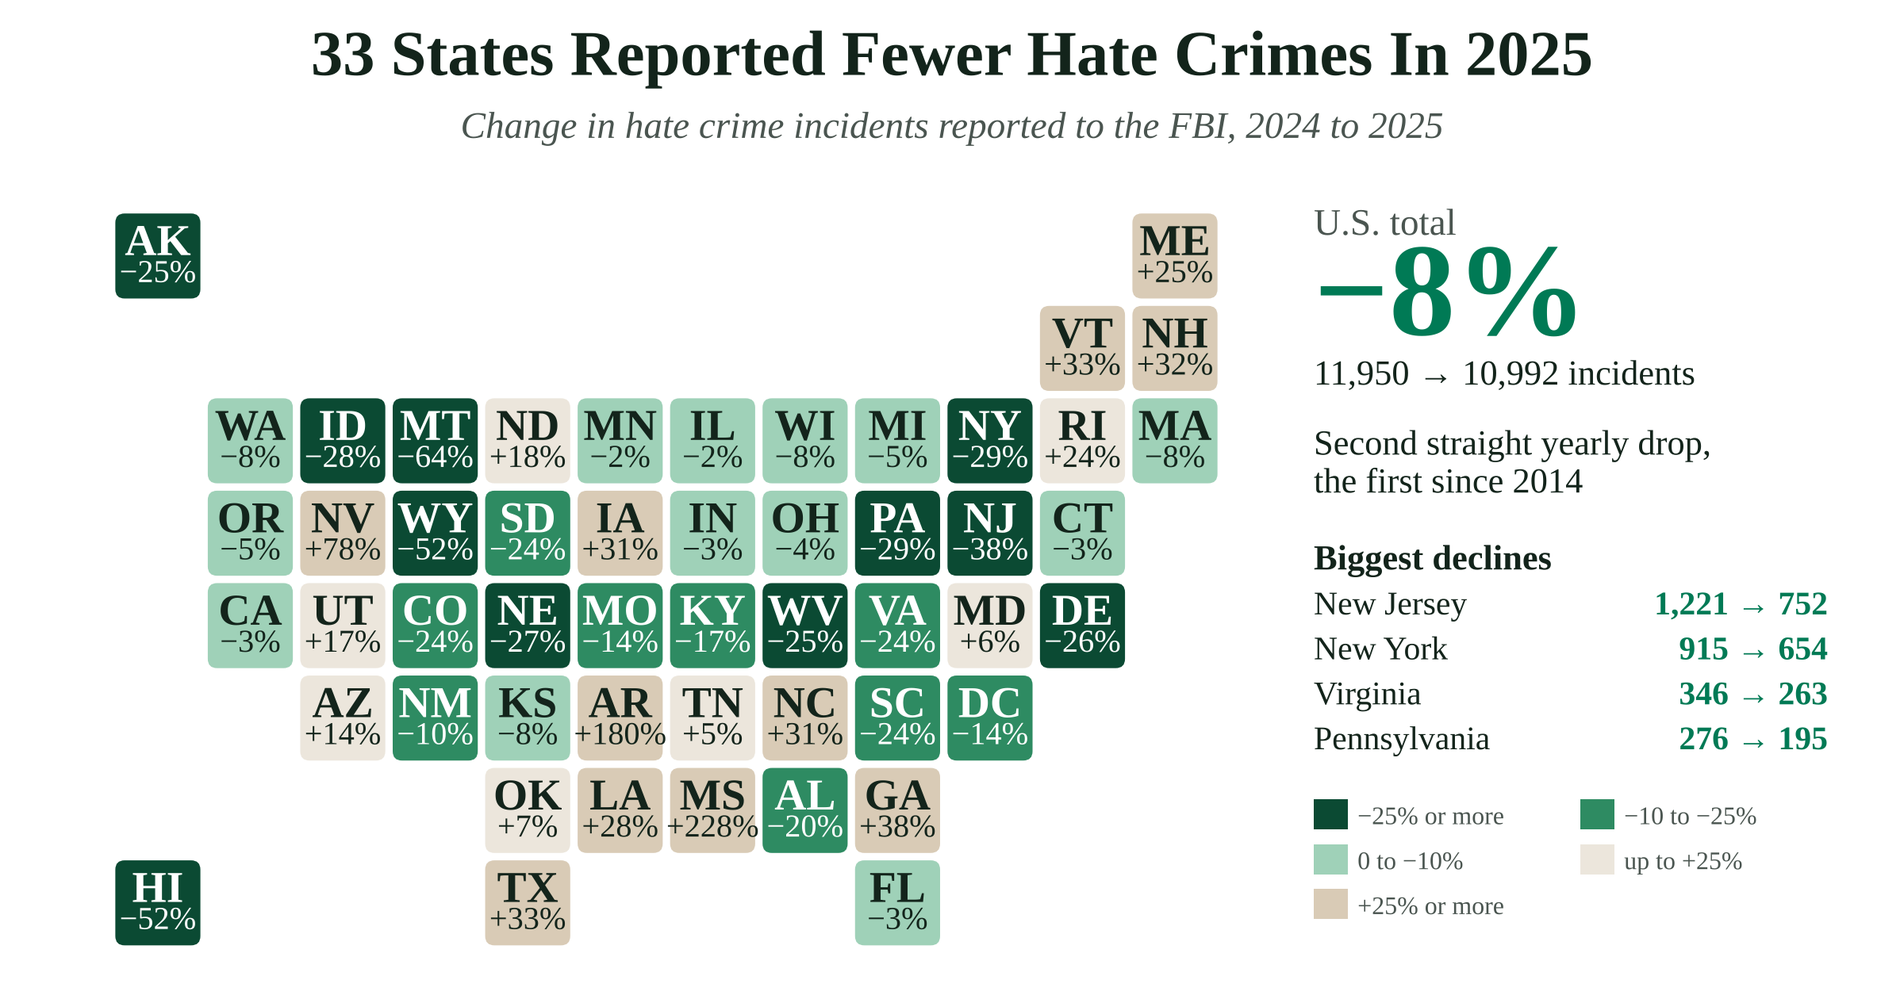
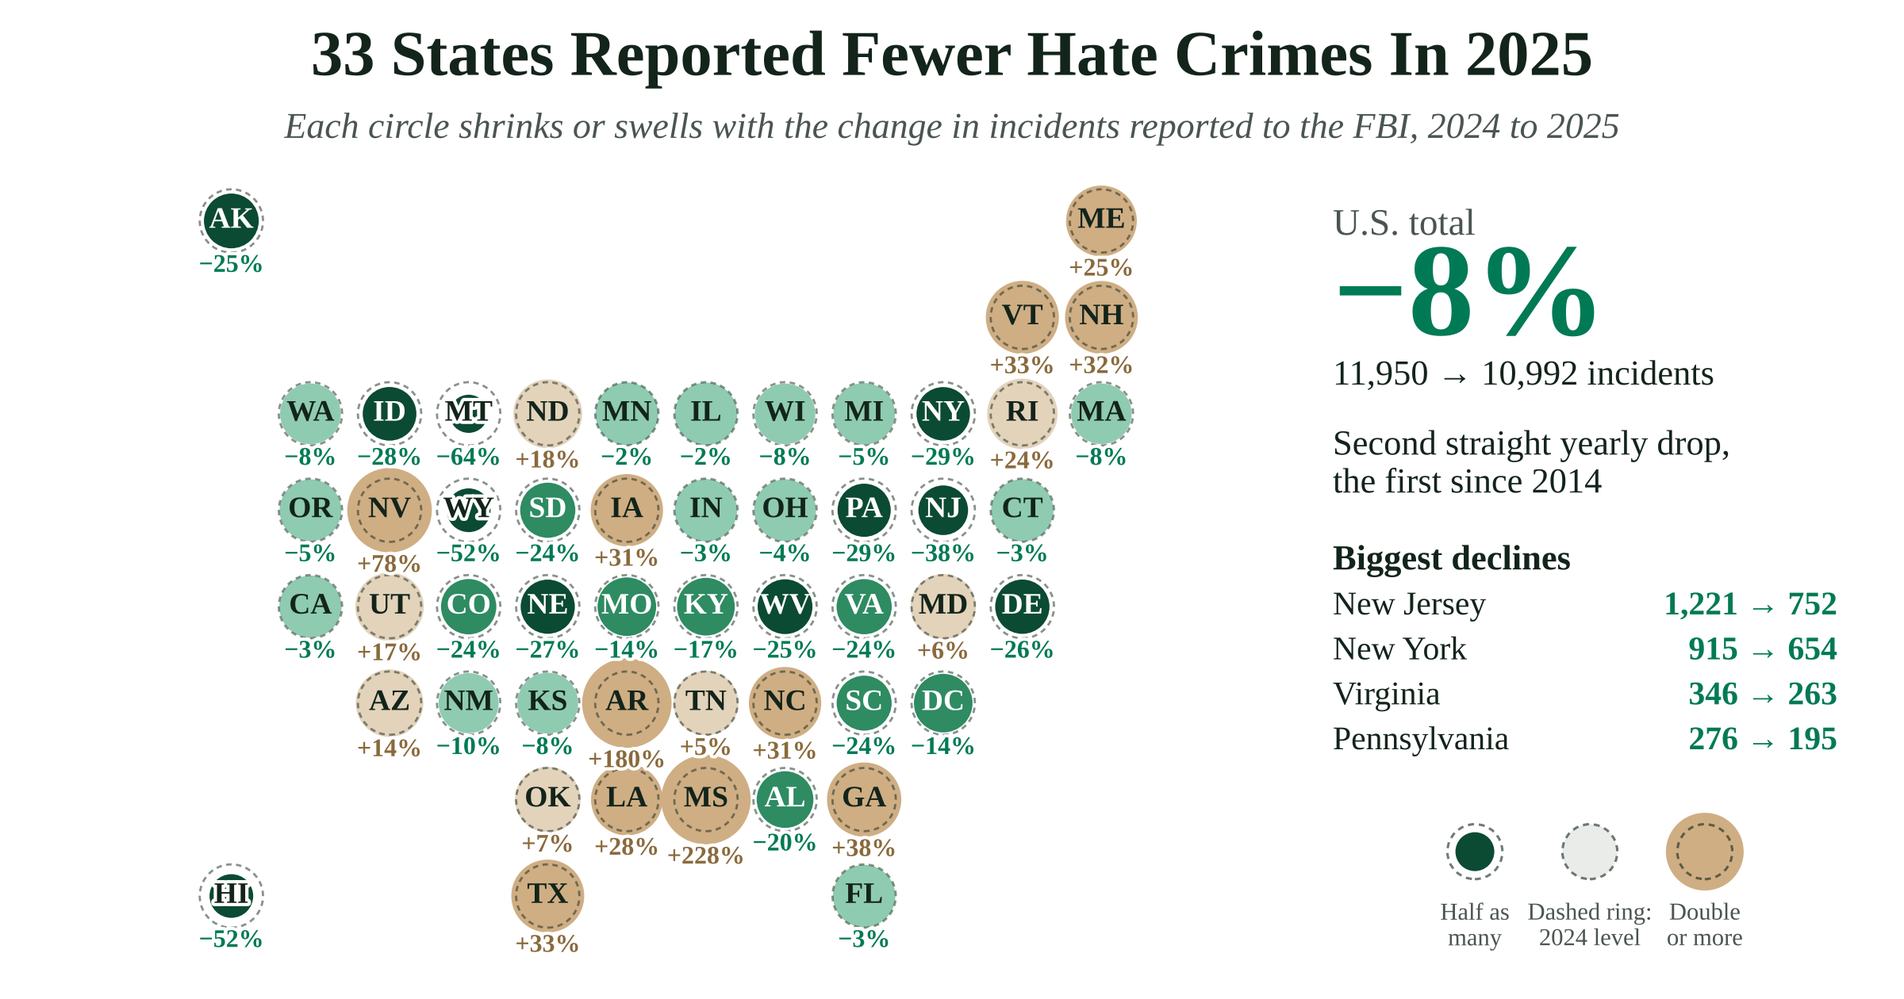
State of Hate: replace tile map with shrink/swell circle map
Claude-Session: https://claude.ai/code/session_014ps2HoqtiaDX9KtWWc6m6n

diff --git a/hate/embed.js b/hate/embed.js
@@ -1,35 +1,49 @@
 (function(){
 var S=[["AL","Alabama",6,7,10,183,147,2.9,26,99],["AK","Alaska",0,0,8,32,24,3.3,21,100],["AZ","Arizona",5,2,276,215,245,3.3,19,98],["AR","Arkansas",5,5,5,10,28,0.9,50,98],["CA","California",4,1,837,2018,1948,4.9,8,100],["CO","Colorado",4,3,107,268,205,3.4,16,99],["CT","Connecticut",3,10,93,99,96,2.6,32,100],["DE","Delaware",4,10,11,19,14,1.3,47,100],["DC","District of Columbia",5,9,65,169,145,20.9,1,100],["FL","Florida",7,8,72,214,208,1.0,49,85],["GA","Georgia",6,8,44,95,131,1.3,48,91],["HI","Hawaii",7,0,0,84,40,2.8,27,100],["ID","Idaho",2,2,34,57,41,2.0,39,99],["IL","Illinois",2,6,90,385,376,3.1,22,95],["IN","Indiana",3,6,63,170,165,2.7,31,88],["IA","Iowa",3,5,6,65,85,2.7,29,97],["KS","Kansas",5,4,62,116,107,3.8,13,95],["KY","Kentucky",4,6,188,131,109,2.4,35,100],["LA","Louisiana",6,5,38,67,86,2.4,34,78],["ME","Maine",0,11,38,44,55,3.9,11,99],["MD","Maryland",4,9,41,261,277,4.4,10,100],["MA","Massachusetts",2,11,411,472,432,6.1,6,100],["MI","Michigan",2,8,309,478,452,4.6,9,97],["MN","Minnesota",2,5,109,228,224,3.8,12,100],["MS","Mississippi",6,6,0,18,59,2.5,33,82],["MO","Missouri",4,5,100,252,216,3.5,14,99],["MT","Montana",2,3,45,11,4,0.3,51,100],["NE","Nebraska",4,4,19,45,33,1.6,44,99],["NV","Nevada",3,2,58,139,248,7.6,4,100],["NH","New Hampshire",1,11,13,31,41,2.9,25,100],["NJ","New Jersey",3,9,330,1221,752,8.1,2,98],["NM","New Mexico",5,3,13,60,54,2.7,30,94],["NY","New York",2,9,500,915,654,3.3,17,99],["NC","North Carolina",5,7,161,287,375,3.4,15,97],["ND","North Dakota",2,4,36,22,26,3.3,18,99],["OH","Ohio",3,7,416,380,364,3.3,20,94],["OK","Oklahoma",6,4,37,82,88,2.1,38,100],["OR","Oregon",3,1,65,334,318,7.6,3,98],["PA","Pennsylvania",3,8,57,276,195,1.5,45,99],["RI","Rhode Island",2,10,18,21,26,2.4,36,99],["SC","South Carolina",5,8,55,123,93,1.7,43,96],["SD","South Dakota",3,4,16,25,19,2.3,37,90],["TN","Tennessee",5,6,221,99,104,1.4,46,100],["TX","Texas",7,4,191,471,625,2.0,41,99],["UT","Utah",4,2,47,82,96,2.7,28,99],["VT","Vermont",1,10,8,33,44,6.8,5,100],["VA","Virginia",4,8,158,346,263,3.0,24,100],["WA","Washington",2,1,275,489,450,5.8,7,98],["WV","West Virginia",4,7,41,64,48,3.1,23,88],["WI","Wisconsin",2,7,43,119,109,1.9,42,97],["WY","Wyoming",3,3,2,23,11,2.0,40,92]];
 var G='#007a55',INK='#13241b',SUB='#4a5550';
-function chCol(v){return v<=-25?'#0b4a33':v<=-10?'#2e8b62':v<0?'#9fd1b8':v<25?'#ece6dc':'#d9cbb6'}
+function chCol(v){return v<=-25?'#0b4a33':v<=-10?'#2e8b62':v<0?'#8fcbb0':v<25?'#e3d3bb':'#cfae84'}
 function rtCol(v){return v<1.5?'#e6f2ec':v<2.5?'#c3e0d0':v<3.5?'#8cc5a9':v<5?'#4ea47f':v<8?'#1f7f58':'#0b4a33'}
 function pct(a,b){return a?Math.round((b-a)/a*100):null}
 function fmt(n){return n.toLocaleString('en-US')}
 function sg(v){return v==null?'n/a':(v>0?'+':v<0?'\u2212':'')+Math.abs(v)+'%'}
 function go(){var b=document.getElementById('nid-hate-map');if(!b)return;
+var PY=1.22,R0=0.40,NS='http://www.w3.org/2000/svg';
 var css='#nid-hate-map{max-width:680px;margin:2.2em auto;font-family:Georgia,"Times New Roman",serif;color:'+INK+'}'+
 '#nid-hate-map .hd{text-align:center;margin-bottom:10px}#nid-hate-map .hd b{display:block;font-size:1.25em}#nid-hate-map .hd span{font-size:.92em;color:'+SUB+';font-style:italic}'+
-'#nid-hate-map .tg{display:flex;justify-content:center;gap:6px;margin:10px 0 14px;font-family:-apple-system,"Helvetica Neue",Arial,sans-serif}'+
+'#nid-hate-map .tg{display:flex;justify-content:center;gap:6px;margin:10px 0 8px;font-family:-apple-system,"Helvetica Neue",Arial,sans-serif}'+
 '#nid-hate-map .tg button{font:inherit;font-size:13px;padding:6px 14px;border-radius:999px;border:1px solid #cfd9d3;background:#fff;color:'+INK+';cursor:pointer}'+
 '#nid-hate-map .tg button.on{background:'+G+';border-color:'+G+';color:#fff}'+
-'#nid-hate-map .gr{display:grid;grid-template-columns:repeat(12,1fr);gap:4px}'+
-'#nid-hate-map .t{aspect-ratio:1;border-radius:7px;display:flex;flex-direction:column;align-items:center;justify-content:center;cursor:pointer;transition:transform .12s,box-shadow .12s;font-family:-apple-system,"Helvetica Neue",Arial,sans-serif;line-height:1.05;border:0;padding:0}'+
-'#nid-hate-map .t b{font-size:clamp(9px,2.1vw,14px)}#nid-hate-map .t i{font-style:normal;font-size:clamp(7px,1.6vw,11px)}'+
-'#nid-hate-map .t:hover,#nid-hate-map .t.sel{transform:scale(1.12);box-shadow:0 4px 14px rgba(0,0,0,.18);z-index:2;position:relative}'+
-'#nid-hate-map .card{margin-top:14px;padding:14px 16px;border:1px solid #e3eee7;border-radius:10px;background:#f7faf8;min-height:92px}'+
+'#nid-hate-map svg{width:100%;height:auto;display:block;overflow:visible}'+
+'#nid-hate-map .s{cursor:pointer}#nid-hate-map .s .d{transition:r .9s cubic-bezier(.3,1.4,.5,1),fill .5s}'+
+'#nid-hate-map .s .rg{fill:none;stroke:'+INK+';stroke-opacity:.5;stroke-width:.012;stroke-dasharray:.035 .03}'+
+'#nid-hate-map .s.sel .rg,#nid-hate-map .s:hover .rg{stroke-opacity:1;stroke-width:.03;stroke-dasharray:none}'+
+'#nid-hate-map .s text{font-family:-apple-system,"Helvetica Neue",Arial,sans-serif;text-anchor:middle;pointer-events:none}'+
+'#nid-hate-map .s .ab{font-size:.26px;font-weight:700;paint-order:stroke;stroke-linejoin:round}#nid-hate-map .s .vl{font-size:.2px;font-weight:700;paint-order:stroke;stroke:#fff;stroke-width:.06px;stroke-linejoin:round}'+
+'#nid-hate-map .card{margin-top:10px;padding:14px 16px;border:1px solid #e3eee7;border-radius:10px;background:#f7faf8;min-height:92px}'+
 '#nid-hate-map .card h4{margin:0 0 6px;font-size:1.15em}#nid-hate-map .card .row{display:flex;flex-wrap:wrap;gap:18px;font-family:-apple-system,"Helvetica Neue",Arial,sans-serif;font-size:13px;color:'+SUB+'}'+
 '#nid-hate-map .card .row div b{display:block;font-family:Georgia,serif;font-size:22px;color:'+INK+'}'+
-'#nid-hate-map .lg{display:flex;flex-wrap:wrap;justify-content:center;gap:10px;margin-top:10px;font-family:-apple-system,"Helvetica Neue",Arial,sans-serif;font-size:11.5px;color:'+SUB+'}#nid-hate-map .lg em{display:inline-block;width:11px;height:11px;border-radius:2px;margin-right:4px;vertical-align:-1px}'+
+'#nid-hate-map .lg{text-align:center;margin-top:4px;font-family:-apple-system,"Helvetica Neue",Arial,sans-serif;font-size:12px;color:'+SUB+'}'+
 '#nid-hate-map .nt{font-size:12px;color:'+SUB+';margin-top:8px;font-family:-apple-system,"Helvetica Neue",Arial,sans-serif}';
 var st=document.createElement('style');st.textContent=css;document.head.appendChild(st);
-b.innerHTML='<div class="hd"><b>Find your state</b><span>Tap or hover over a state</span></div><div class="tg"><button data-m="ch" class="on">Change, 2024 to 2025</button><button data-m="rt">Rate per 100,000, 2025</button></div><div class="gr"></div><div class="lg"></div><div class="card"></div><div class="nt">Incidents reported by law enforcement agencies to the FBI. Rates use the population those agencies cover. Big swings in small states can reflect a handful of incidents or changes in reporting.</div>';
-var gr=b.querySelector('.gr'),card=b.querySelector('.card'),lg=b.querySelector('.lg'),mode='ch',sel=null;
-var tiles={};
-S.forEach(function(s){var t=document.createElement('button');t.className='t';t.style.gridRow=(s[2]+1);t.style.gridColumn=(s[3]+1);t.innerHTML='<b>'+s[0]+'</b><i></i>';t.onmouseenter=function(){show(s)};t.onclick=function(){sel&&tiles[sel].classList.remove('sel');sel=s[0];t.classList.add('sel');show(s)};gr.appendChild(t);tiles[s[0]]=t});
-function paint(){S.forEach(function(s){var t=tiles[s[0]],c,v;if(mode==='ch'){v=pct(s[5],s[6]);c=chCol(v);t.querySelector('i').textContent=sg(v)}else{v=s[7];c=rtCol(v);t.querySelector('i').textContent=v.toFixed(1)}t.style.background=c;t.style.color=(mode==='ch'?(v<=-10):(v>=3.5))?'#fff':INK});
-lg.innerHTML=(mode==='ch'?[['#0b4a33','\u221225% or more'],['#2e8b62','\u221210 to \u221225%'],['#9fd1b8','0 to \u221210%'],['#ece6dc','up to +25%'],['#d9cbb6','+25% or more']]:[['#e6f2ec','under 1.5'],['#c3e0d0','1.5\u20132.5'],['#8cc5a9','2.5\u20133.5'],['#4ea47f','3.5\u20135'],['#1f7f58','5\u20138'],['#0b4a33','8+']]).map(function(x){return '<span><em style="background:'+x[0]+'"></em>'+x[1]+'</span>'}).join('')}
+b.innerHTML='<div class="hd"><b>Find your state</b><span>Tap or hover over a state</span></div><div class="tg"><button data-m="ch" class="on">Change, 2024 to 2025</button><button data-m="rt">Rate per 100,000, 2025</button></div><svg viewBox="-0.2 -0.2 12.4 10.1"></svg><div class="lg"></div><div class="card"></div><div class="nt">Incidents reported by law enforcement agencies to the FBI. Rates use the population those agencies cover. Circle sizes are capped at double the ring. Big swings in small states can reflect a handful of incidents or changes in reporting.</div>';
+var svg=b.querySelector('svg'),card=b.querySelector('.card'),lg=b.querySelector('.lg'),mode='ch',sel=null,grown=false;
+function el(n,a,p){var e=document.createElementNS(NS,n);for(var k in a)e.setAttribute(k,a[k]);p.appendChild(e);return e}
+var N={};
+S.slice().sort(function(a,c){return c[6]/c[5]-a[6]/a[5]}).forEach(function(s){var x=s[3]+0.5,y=s[2]*PY+0.5;var g=el('g',{'class':'s'},svg);
+var d=el('circle',{'class':'d',cx:x,cy:y,r:R0},g);el('circle',{'class':'rg',cx:x,cy:y,r:R0},g);
+var ab=el('text',{'class':'ab',x:x,y:y+0.09},g);ab.textContent=s[0];var vl=el('text',{'class':'vl',x:x,y:y},g);
+N[s[0]]={g:g,d:d,ab:ab,vl:vl,y:y};
+g.addEventListener('mouseenter',function(){show(s)});g.addEventListener('click',function(){if(sel)N[sel].g.classList.remove('sel');sel=s[0];g.classList.add('sel');show(s)});});
+function paint(){S.forEach(function(s){var n=N[s[0]],v,c,r,dark,small;
+if(mode==='ch'){v=pct(s[5],s[6]);c=chCol(v);r=grown?R0*Math.sqrt(Math.min(s[6]/s[5],2)):R0;dark=v<=-10;n.vl.textContent=sg(v);n.vl.setAttribute('fill',v<0?G:'#8a6a3c')}
+else{v=s[7];c=rtCol(v);r=grown?R0*Math.sqrt(Math.min(v/3.3,2)):R0;dark=v>=3.5;n.vl.textContent=v.toFixed(1);n.vl.setAttribute('fill',INK)}
+small=r<R0*0.75;n.d.setAttribute('r',r);n.d.style.r=r+'px';n.d.setAttribute('fill',c);n.ab.setAttribute('fill',(dark&&!small)?'#fff':INK);n.ab.setAttribute('stroke',small?'#fff':'none');n.ab.setAttribute('stroke-width',small?'.07':'0');
+n.vl.setAttribute('y',n.y+Math.max(r,R0)+0.24)});
+lg.textContent=mode==='ch'?'Dashed ring: 2024 level. Green circles shrank, tan circles grew.':'Dashed ring: U.S. rate of 3.3. Bigger, darker circles have higher rates.'}
 function show(s){var v=pct(s[5],s[6]);card.innerHTML='<h4>'+s[1]+'</h4><div class="row"><div><b>'+fmt(s[6])+'</b>incidents in 2025</div><div><b style="color:'+(v<0?G:'#9a6f3a')+'">'+sg(v)+'</b>vs. 2024 ('+fmt(s[5])+')</div><div><b>'+s[7].toFixed(1)+'</b>per 100,000 (rank '+s[8]+' of 51)</div><div><b>'+fmt(s[4])+'</b>in 2015</div></div>'}
 [].forEach.call(b.querySelectorAll('.tg button'),function(x){x.onclick=function(){mode=x.dataset.m;[].forEach.call(b.querySelectorAll('.tg button'),function(y){y.classList.toggle('on',y===x)});paint()}});
 paint();show(S.filter(function(s){return s[0]==='NJ'})[0]);
+function grow(){if(grown)return;grown=true;paint()}
+if('IntersectionObserver' in window){var io=new IntersectionObserver(function(e){if(e[0].isIntersecting){setTimeout(grow,350);io.disconnect()}},{threshold:.4});io.observe(svg)}else grow();
 }
 if(document.readyState==='loading')document.addEventListener('DOMContentLoaded',go);else go();})();

diff --git a/hate/index.html b/hate/index.html
@@ -1,7 +1,7 @@
 <!doctype html><meta charset="utf-8"><meta name="viewport" content="width=device-width,initial-scale=1"><meta name="robots" content="noindex"><title>Hate (preview)</title><body style="max-width:760px;margin:0 auto;padding:16px;font-family:Georgia,serif;background:#fff"><style>.nid-a h2{margin:1.6em 0 .5em}.nid-a .nid-fig{margin:2.4em auto;max-width:620px}.nid-a .nid-fig img{width:100%;height:auto;display:block;border:1px solid #e6e3dd;border-radius:6px}.nid-a .nid-photo{max-width:520px}.nid-a .nid-fig figcaption{font-size:.82em;color:#5f7268;margin-top:.5em;line-height:1.4}.nid-a .nid-method{font-size:.92em;margin-top:2em}.nid-a .nid-fig.nid-wide{max-width:100%}.nid-a .nid-wide img{border-radius:8px}</style><div class="nid-a">
 <p>In December 2016 I published the second edition of "The State of Hate," ranking states, cities and college campuses by the hate crimes their police reported to the FBI. Ten years later I ran the numbers again, and the newest figures carry some good news. Police agencies reported 10,992 hate crime incidents in 2025, according to the FBI's Crime Data Explorer, 8% fewer than the 11,950 reported in 2024 and the second drop in a row.</p>
 <p>That makes it the first back-to-back decline since 2013 and 2014, and the 2025 total is 10% below the 2023 peak of 12,177. Thirty-three states reported fewer incidents than the year before, while 18 states reported more.</p>
-<figure class="nid-fig"><img src="./hate-lead.png?v=1" alt="Tile map of the change in hate crimes reported to the FBI from 2024 to 2025. 33 states reported fewer, led by New Jersey (down 38%) and New York (down 29%); the U.S. total fell 8%." width="2400" height="1260"></figure>
+<figure class="nid-fig"><img src="./hate-lead.png?v=2" alt="Map of state circles that shrink or swell with the change in hate crimes reported to the FBI from 2024 to 2025. 33 states reported fewer, led by New Jersey (down 38%) and New York (down 29%); the U.S. total fell 8%." width="2400" height="1260"></figure>
 <h2>The long view is less rosy</h2>
 <p>The 2025 total is still nearly double the 5,843 incidents reported in 2015, the year my 2016 post covered. Part of that rise reflects more and better reporting rather than more hate. After 2020 the FBI moved every agency to a new, more detailed reporting system, and states whose police once reported almost nothing now report hundreds of incidents. Alabama went from 10 reported incidents in 2015 to 147 in 2025, Maryland from 41 to 277 and Illinois from 90 to 376.</p>
 <figure class="nid-fig"><img src="./hate-trend.png?v=1" alt="Stacked bar chart of hate crimes reported to the FBI each year, 2010 to 2025, by bias. Totals rose from 5,843 in 2015 to a peak of 12,177 in 2023, then fell to 10,992 in 2025." width="2160" height="1600"></figure>
@@ -23,4 +23,4 @@
 <figure class="nid-fig nid-photo nid-wide"><img src="https://upload.wikimedia.org/wikipedia/commons/thumb/b/bc/Dragon_Boat_Races_at_the_2025_World_Beat_Festival_on_June_28%2C_2025_during_a_multicultural_event_at_Riverfront_Park_in_Salem%2C_Oregon_-_3.jpg/1280px-Dragon_Boat_Races_at_the_2025_World_Beat_Festival_on_June_28%2C_2025_during_a_multicultural_event_at_Riverfront_Park_in_Salem%2C_Oregon_-_3.jpg" alt="Paddlers race dragon boats on the Willamette River during the World Beat Festival in Salem, Oregon" loading="lazy"><figcaption>Dragon boat races at the 2025 World Beat Festival, a multicultural celebration at Riverfront Park in Salem, Ore. Photo: <a href="https://commons.wikimedia.org/wiki/File:Dragon_Boat_Races_at_the_2025_World_Beat_Festival_on_June_28%2C_2025_during_a_multicultural_event_at_Riverfront_Park_in_Salem%2C_Oregon_-_3.jpg">Oregon National Guard</a>, <a href="https://creativecommons.org/licenses/by/4.0/">CC BY 4.0</a>, via Wikimedia Commons.</figcaption></figure>
 <p class="nid-method"><em>How we counted: Hate crime incidents by state, city and bias come from the FBI Crime Data Explorer (cde.ucr.cjis.gov), as refreshed Oct. 15, 2026, summing monthly incidents for each year. These totals run slightly higher than the FBI's printed annual report, which counted 10,881 incidents in 2025 and 11,679 in 2024, a 6.8% drop, because agencies keep submitting data after publication. State rates divide incidents by the residents covered by reporting agencies (the state population times the FBI's coverage percentage). City rates use the population the FBI lists for each police department; cities that didn't report all 12 months (New Orleans, Baton Rouge and Cape Coral) are left out. Bias categories count incidents with a single recorded bias; multiple-bias incidents are counted separately. The 2005–2019 victimization estimate is from the Bureau of Justice Statistics report "Hate Crime Victimization, 2005–2019" (NCJ 300954, September 2021). The marriage figures are from Gallup's July 2021 survey. Year-to-year changes in small states can reflect a handful of incidents or a change in how agencies report. <a href="https://cde.ucr.cjis.gov/LATEST/webapp/#/pages/explorer/crime/hate-crime">FBI Crime Data Explorer</a>. <a href="https://cde.ucr.cjis.gov/LATEST/resources/reports/UCR_Summary_of_Reported_Crimes_in_the_Nation_2025.pdf">FBI 2025 summary report</a>. <a href="https://bjs.ojp.gov/sites/g/files/xyckuh236/files/media/document/hcv0519_sum_3.pdf">BJS</a>. <a href="https://news.gallup.com/poll/354638/approval-interracial-marriage-new-high.aspx">Gallup</a>. <a href="https://www.thenewsindata.com/stories/the-state-of-hate">The State of Hate (2016)</a>. <a href="https://stories.thenewsindata.com/data/reported-hate-crimes-fell-for-a-second-straight-year-and-33-states-saw-declines-in-2025.csv">Download our data (CSV)</a>.</em></p>
 </div>
-<script src="./embed.js?v=1"></script>
+<script src="./embed.js?v=2"></script>

diff --git a/hate/post-body.html b/hate/post-body.html
@@ -1,7 +1,7 @@
 <style>.nid-a h2{margin:1.6em 0 .5em}.nid-a .nid-fig{margin:2.4em auto;max-width:620px}.nid-a .nid-fig img{width:100%;height:auto;display:block;border:1px solid #e6e3dd;border-radius:6px}.nid-a .nid-photo{max-width:520px}.nid-a .nid-fig figcaption{font-size:.82em;color:#5f7268;margin-top:.5em;line-height:1.4}.nid-a .nid-method{font-size:.92em;margin-top:2em}.nid-a .nid-fig.nid-wide{max-width:100%}.nid-a .nid-wide img{border-radius:8px}</style><div class="nid-a">
 <p>In December 2016 I published the second edition of "The State of Hate," ranking states, cities and college campuses by the hate crimes their police reported to the FBI. Ten years later I ran the numbers again, and the newest figures carry some good news. Police agencies reported 10,992 hate crime incidents in 2025, according to the FBI's Crime Data Explorer, 8% fewer than the 11,950 reported in 2024 and the second drop in a row.</p>
 <p>That makes it the first back-to-back decline since 2013 and 2014, and the 2025 total is 10% below the 2023 peak of 12,177. Thirty-three states reported fewer incidents than the year before, while 18 states reported more.</p>
-<figure class="nid-fig"><img src="https://stories.thenewsindata.com/hate/hate-lead.png?v=1" alt="Tile map of the change in hate crimes reported to the FBI from 2024 to 2025. 33 states reported fewer, led by New Jersey (down 38%) and New York (down 29%); the U.S. total fell 8%." width="2400" height="1260"></figure>
+<figure class="nid-fig"><img src="https://stories.thenewsindata.com/hate/hate-lead.png?v=2" alt="Map of state circles that shrink or swell with the change in hate crimes reported to the FBI from 2024 to 2025. 33 states reported fewer, led by New Jersey (down 38%) and New York (down 29%); the U.S. total fell 8%." width="2400" height="1260"></figure>
 <h2>The long view is less rosy</h2>
 <p>The 2025 total is still nearly double the 5,843 incidents reported in 2015, the year my 2016 post covered. Part of that rise reflects more and better reporting rather than more hate. After 2020 the FBI moved every agency to a new, more detailed reporting system, and states whose police once reported almost nothing now report hundreds of incidents. Alabama went from 10 reported incidents in 2015 to 147 in 2025, Maryland from 41 to 277 and Illinois from 90 to 376.</p>
 <figure class="nid-fig"><img src="https://stories.thenewsindata.com/hate/hate-trend.png?v=1" alt="Stacked bar chart of hate crimes reported to the FBI each year, 2010 to 2025, by bias. Totals rose from 5,843 in 2015 to a peak of 12,177 in 2023, then fell to 10,992 in 2025." width="2160" height="1600"></figure>
@@ -23,4 +23,4 @@
 <figure class="nid-fig nid-photo nid-wide"><img src="https://upload.wikimedia.org/wikipedia/commons/thumb/b/bc/Dragon_Boat_Races_at_the_2025_World_Beat_Festival_on_June_28%2C_2025_during_a_multicultural_event_at_Riverfront_Park_in_Salem%2C_Oregon_-_3.jpg/1280px-Dragon_Boat_Races_at_the_2025_World_Beat_Festival_on_June_28%2C_2025_during_a_multicultural_event_at_Riverfront_Park_in_Salem%2C_Oregon_-_3.jpg" alt="Paddlers race dragon boats on the Willamette River during the World Beat Festival in Salem, Oregon" loading="lazy"><figcaption>Dragon boat races at the 2025 World Beat Festival, a multicultural celebration at Riverfront Park in Salem, Ore. Photo: <a href="https://commons.wikimedia.org/wiki/File:Dragon_Boat_Races_at_the_2025_World_Beat_Festival_on_June_28%2C_2025_during_a_multicultural_event_at_Riverfront_Park_in_Salem%2C_Oregon_-_3.jpg">Oregon National Guard</a>, <a href="https://creativecommons.org/licenses/by/4.0/">CC BY 4.0</a>, via Wikimedia Commons.</figcaption></figure>
 <p class="nid-method"><em>How we counted: Hate crime incidents by state, city and bias come from the FBI Crime Data Explorer (cde.ucr.cjis.gov), as refreshed Oct. 15, 2026, summing monthly incidents for each year. These totals run slightly higher than the FBI's printed annual report, which counted 10,881 incidents in 2025 and 11,679 in 2024, a 6.8% drop, because agencies keep submitting data after publication. State rates divide incidents by the residents covered by reporting agencies (the state population times the FBI's coverage percentage). City rates use the population the FBI lists for each police department; cities that didn't report all 12 months (New Orleans, Baton Rouge and Cape Coral) are left out. Bias categories count incidents with a single recorded bias; multiple-bias incidents are counted separately. The 2005–2019 victimization estimate is from the Bureau of Justice Statistics report "Hate Crime Victimization, 2005–2019" (NCJ 300954, September 2021). The marriage figures are from Gallup's July 2021 survey. Year-to-year changes in small states can reflect a handful of incidents or a change in how agencies report. <a href="https://cde.ucr.cjis.gov/LATEST/webapp/#/pages/explorer/crime/hate-crime">FBI Crime Data Explorer</a>. <a href="https://cde.ucr.cjis.gov/LATEST/resources/reports/UCR_Summary_of_Reported_Crimes_in_the_Nation_2025.pdf">FBI 2025 summary report</a>. <a href="https://bjs.ojp.gov/sites/g/files/xyckuh236/files/media/document/hcv0519_sum_3.pdf">BJS</a>. <a href="https://news.gallup.com/poll/354638/approval-interracial-marriage-new-high.aspx">Gallup</a>. <a href="https://www.thenewsindata.com/stories/the-state-of-hate">The State of Hate (2016)</a>. <a href="https://stories.thenewsindata.com/data/reported-hate-crimes-fell-for-a-second-straight-year-and-33-states-saw-declines-in-2025.csv">Download our data (CSV)</a>.</em></p>
 </div>
-<script src="https://stories.thenewsindata.com/hate/embed.js?v=1"></script>
+<script src="https://stories.thenewsindata.com/hate/embed.js?v=2"></script>
